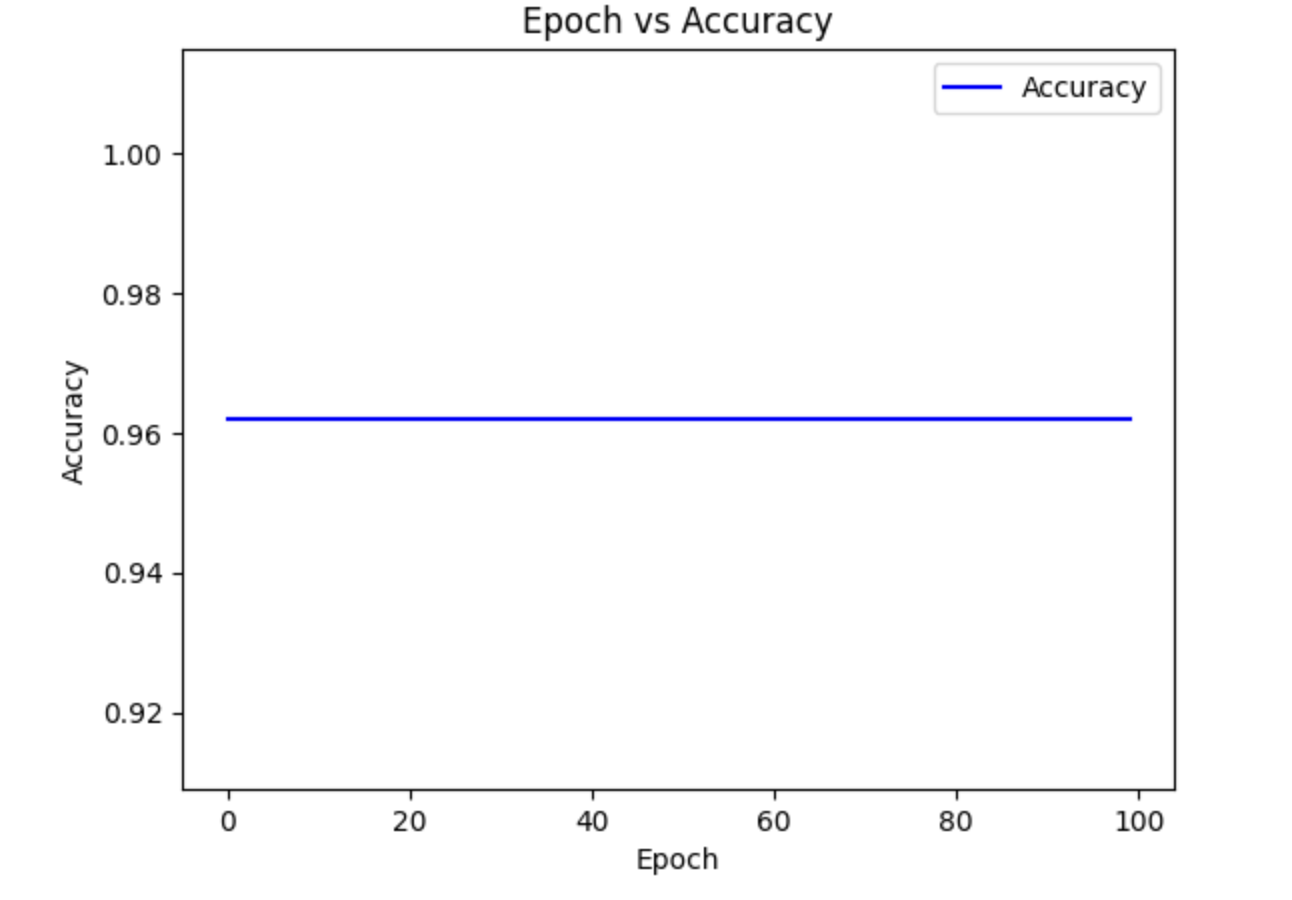
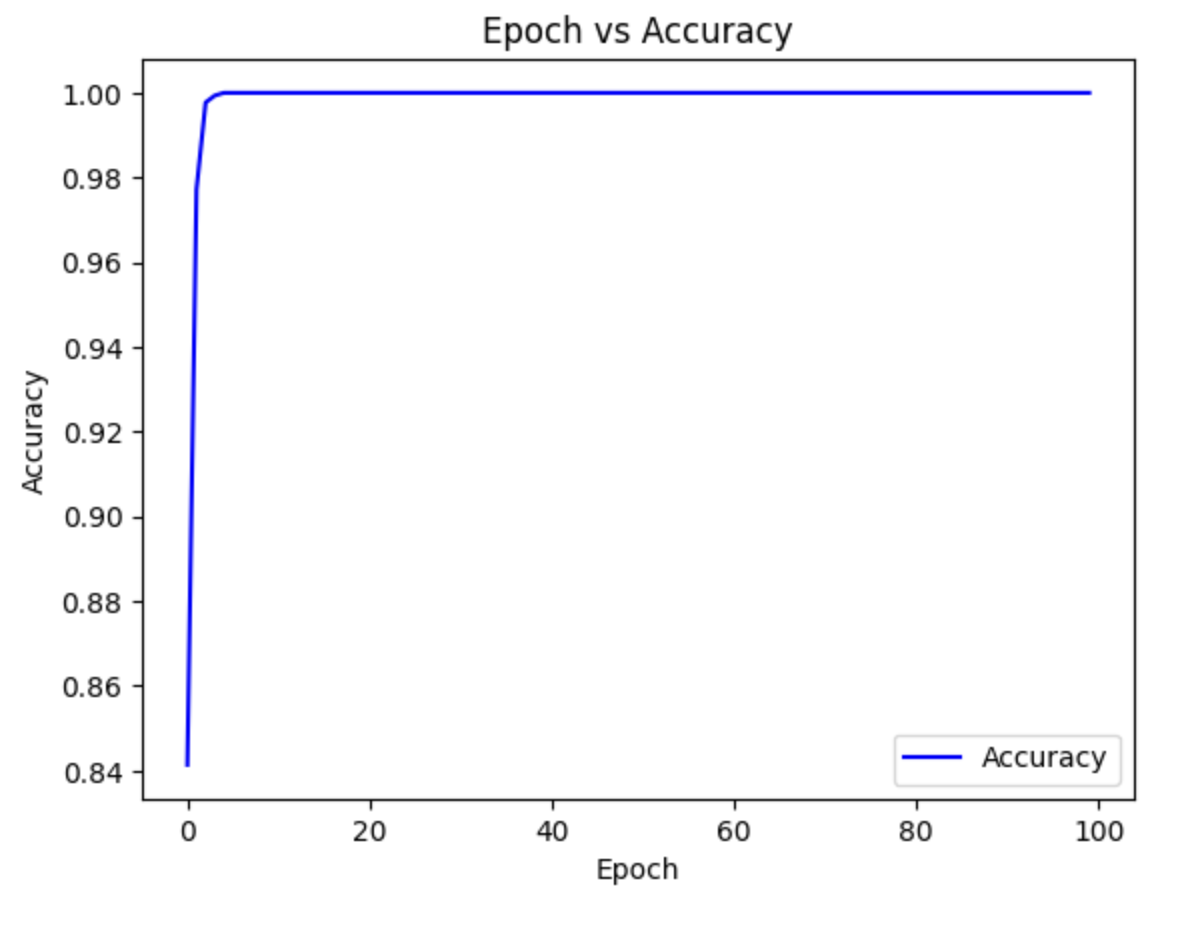
Update RNN article

Changed region(s): [[0.0, 0.0, 0.9606, 0.9333], [0.4958, 0.9333, 0.5888, 0.9644]]

diff --git a/RNN_TIHM.html b/RNN_TIHM.html
@@ -18,7 +18,7 @@
 
 
 		<div class="page_title">
-			<h1> Classify Snoring using in RNN on TIHM Dementia Data</h1>
+			<h1> Classify Snoring using in RNN and LSTM on TIHM Dementia Data</h1>
 			<br>
 		</div>
 
@@ -29,7 +29,7 @@
 				 	The TIHM project originates in England and is an open dataset for remote healthcare monitoring in dementia patients. It monitors patients in their homes using low-cost Internet of Things (IoT) sensing technologies. The sensing technologies collect vital signs and sleep patterns of patients in various rooms of their homes. The patients had to be 50 years old with a verified diagnosis of dementia. There was sleep data for 17 participants. On average each participant was involved in the study for about 50 days. 
 				 <br>
 				 <br>
-				 The data is time-series data, so I used an Recurrent Neural Network (RNN) to classify patients as snoring or not. I am interested in snoring information because there have been interest in snoring or not snoring data for patients with dementia. The results of the 
+				 The data is time-series data, so I used an Recurrent Neural Network (RNN) and LSTM to classify patients as snoring or not. I am interested in snoring information because there have been interest in snoring or not snoring data for patients with dementia. The results of the 
 				 analysis can be found in the following workbook:<a href="https://github.com/rhiats/TIHM-Dataset-RNN/blob/main/RNN_TIHM_Dataset.ipynb"> 
 				Analysis Workbook </a>
 			</h3>
@@ -42,22 +42,43 @@
 
 			<h2> Data Analysis: RNN Model </h2> 
 			
-			<h3> The RNN model had a hidden size of 32 and used binary classification to classify patients as snoring or not. I trained on 100 epochs and calculated the loss values and the accuracy values during training.			
+			<h3> The RNN model had a hidden size of 16 and used binary classification to classify patients as snoring or not. I trained on 100 epochs and calculated the loss values and the accuracy values during training. My model has a tendency to overfit, so I included a drop out rate of 0.4. The drop out rate means that all the neurons are not used to train the model.
 			</h3>
 
 			<center><img src="images/RNN_TIHM_Epoch_v_Loss.png" alt="ROC" width="400" height="350"></center>
 
-			<h3> The Loss function declines from 0.64 to 0.16 by the hundredth epoch. This is a great loss value as it is close to 0. 			
+			<h3> The Loss function declines from 0.55 to 0.0068 by the hundredth epoch. This is a great loss value as it is close to 0. 			
 			</h3>
 
 			<center><img src="images/RNN_TIHM_Epoch_v_Accuracy.png" alt="ROC" width="400" height="350"></center>
 
-			<h3> The accuracy during training remains at 96% which is great because it is close to 100%. Accuracy is the degree of correctness of the result. The model is highly accurate, despite only having two features. 			
+			<h3> The accuracy during training remains at 100%. Accuracy is the degree of correctness of the result. The model is highly accurate, despite only having two features. The model is most likely overfitting because there is not enough training data.  			
 			</h3>
 
 			<h2>Evaluate the Model</h2>
 			
-			<h3> The test set has a test loss of 0.7 and a test accuracy of 96%. Both of these values are good as the loss is close to zero and the accuracy is close to 100%. 
+			<h3> The test set has a test loss of 0.3 and a test accuracy of 100%. Both of these values are good as the loss is close to zero and the accuracy is close to 100%. 
+
+			</h3>
+
+			<h2> Data Analysis: LSTM Model </h2> 
+			
+			<h3> The LSTM model is trained on the same sample of data as the RNN model. It has two drop outs set at 0.2. It is trained for 20 epochs.
+			</h3>
+
+			<center><img src="images/LSTM_TIHM_Epoch_v_Loss.png" alt="ROC" width="400" height="350"></center>
+
+			<h3> The Loss function declines from 0.17 to 5e-6 by the twentieth epoch. This is a great loss value as it is close to 0 and only takes 20 epochs. 			
+			</h3>
+
+			<center><img src="images/LSTM_TIHM_Epoch_v_Accuracy.png" alt="ROC" width="400" height="350"></center>
+
+			<h3> The accuracy during training remains at 100%. Accuracy is the degree of correctness of the result. The model is most likely overfitting because there is not enough training data in the sample. It is only trained on two features, so increasing the complexity of the data may result in less overfitting.   			
+			</h3>
+
+			<h2>Evaluate the Model</h2>
+			
+			<h3> The test set has a test loss of 2.94e-06 and a test accuracy of 100%. Both of these values are good as the loss is close to zero and the accuracy is close to 100%. 
 
 			</h3>
 
